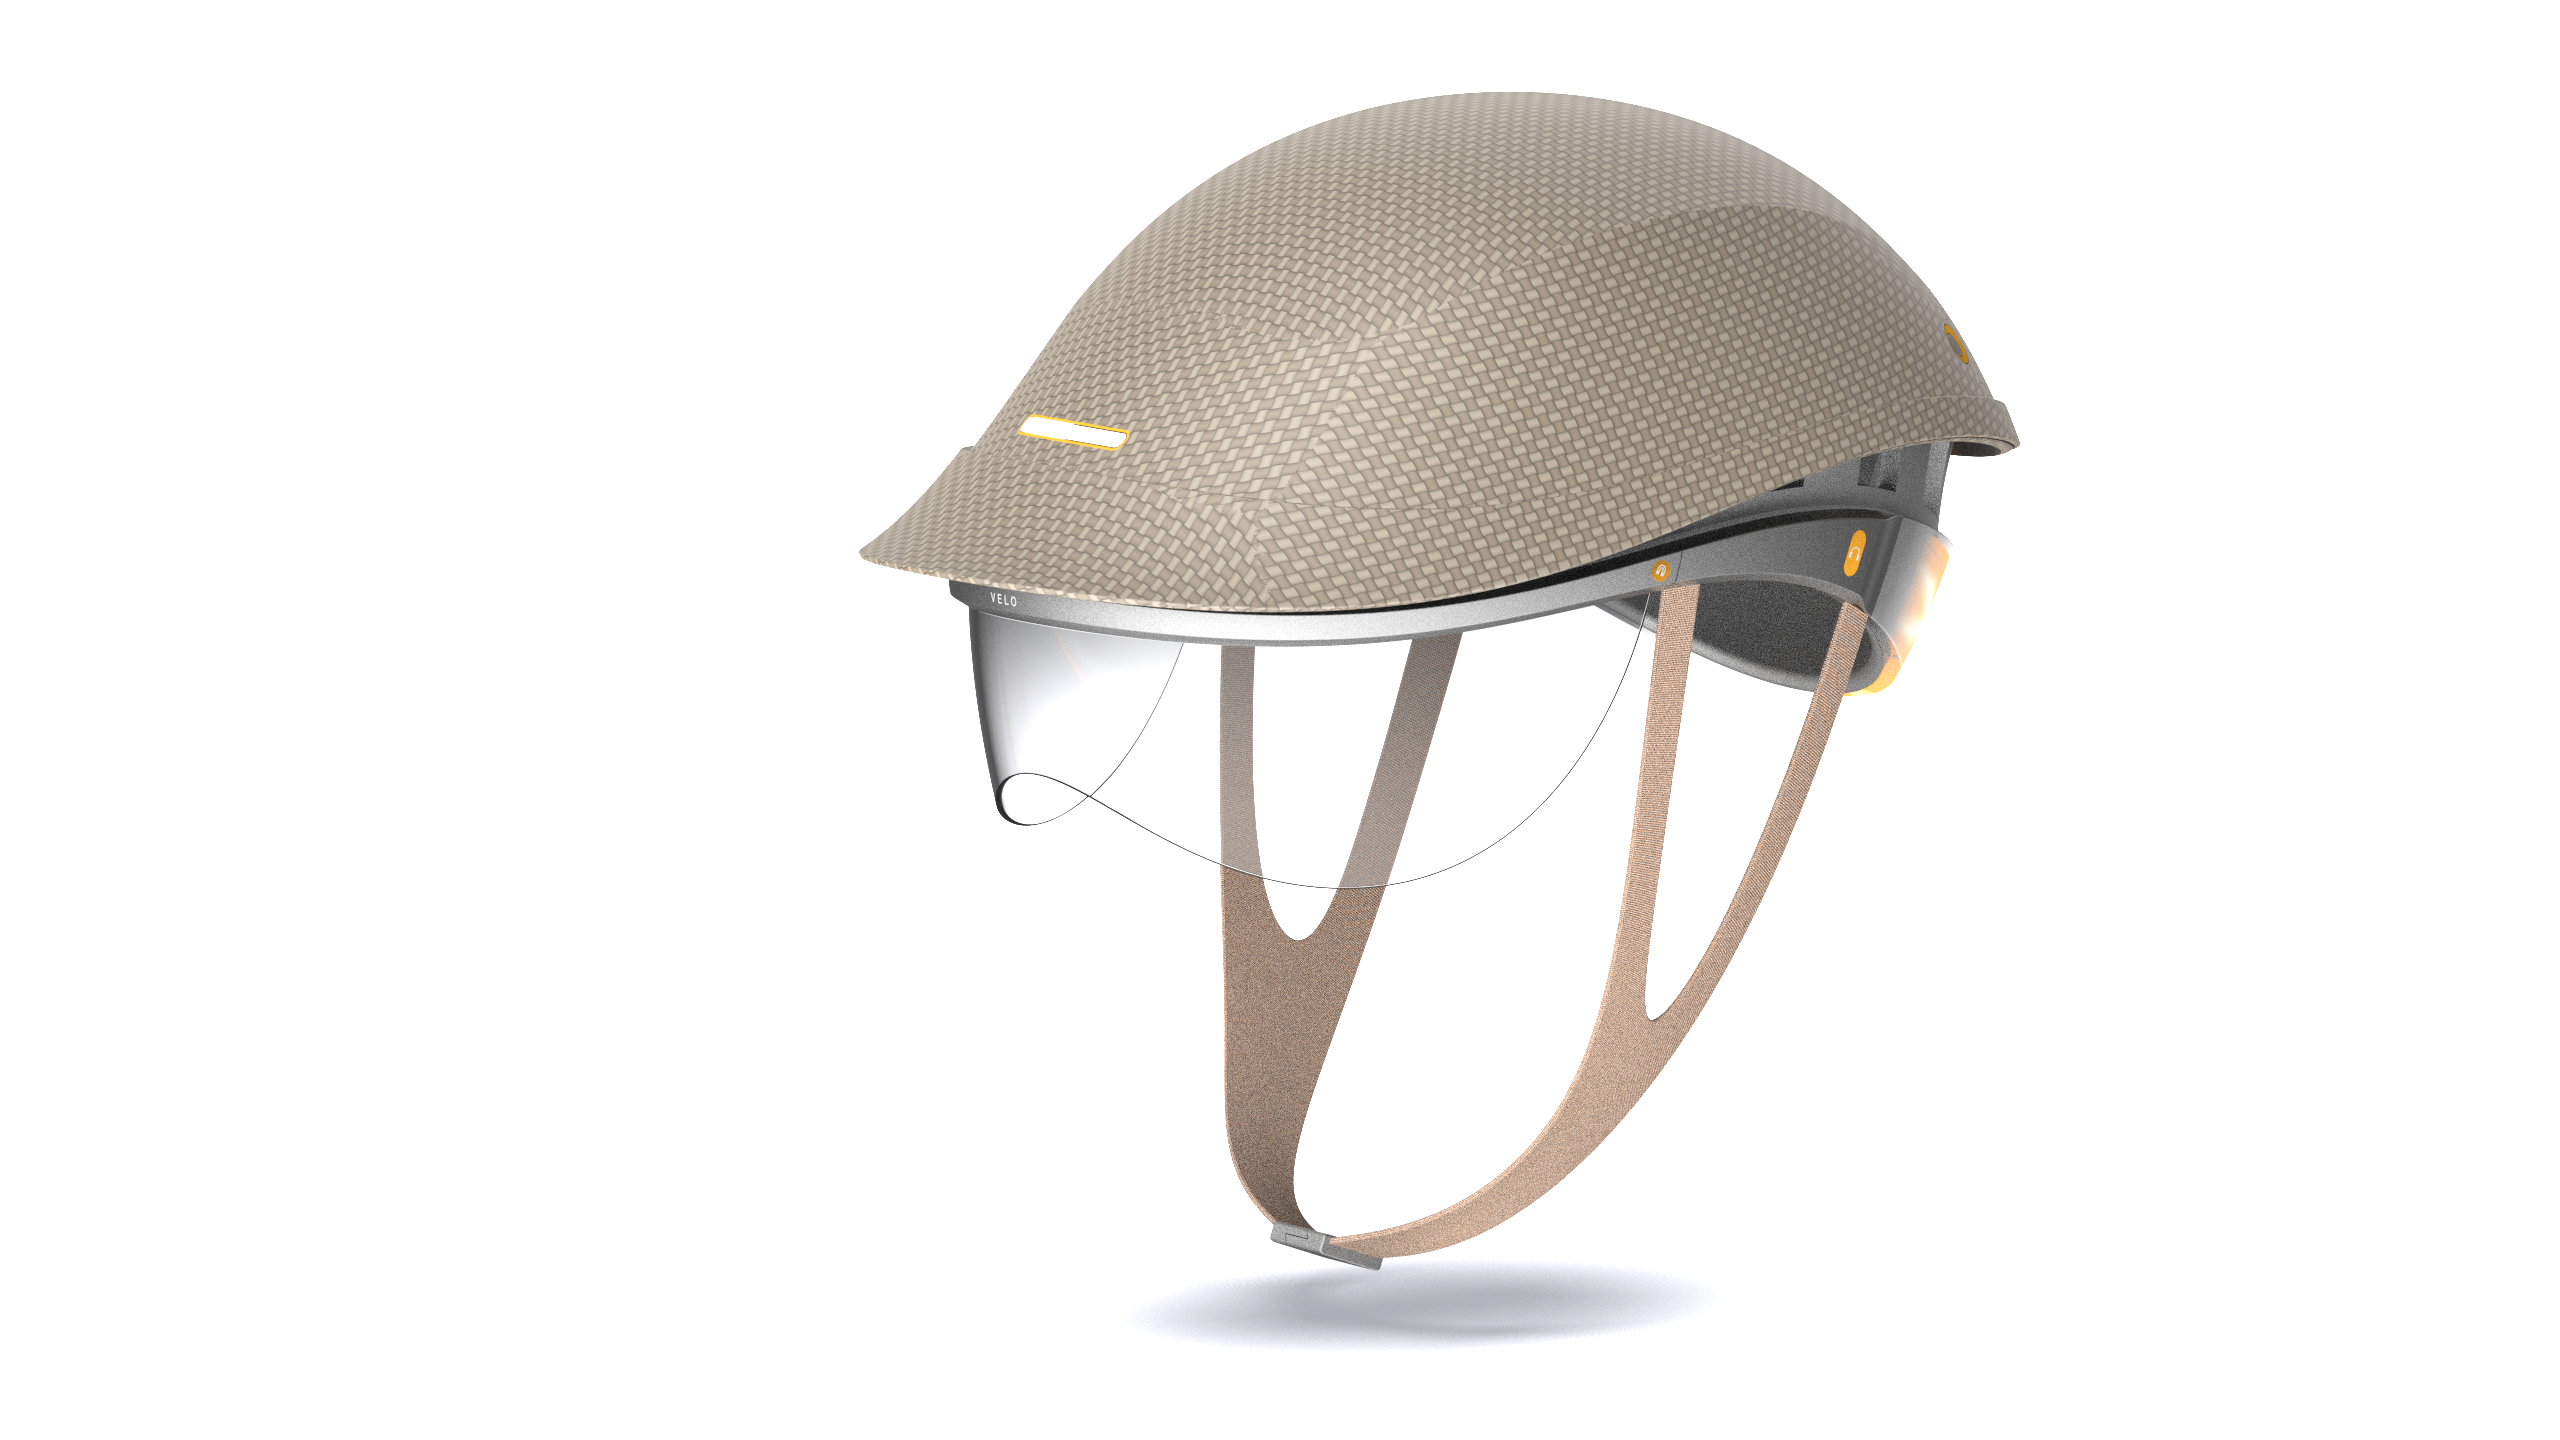
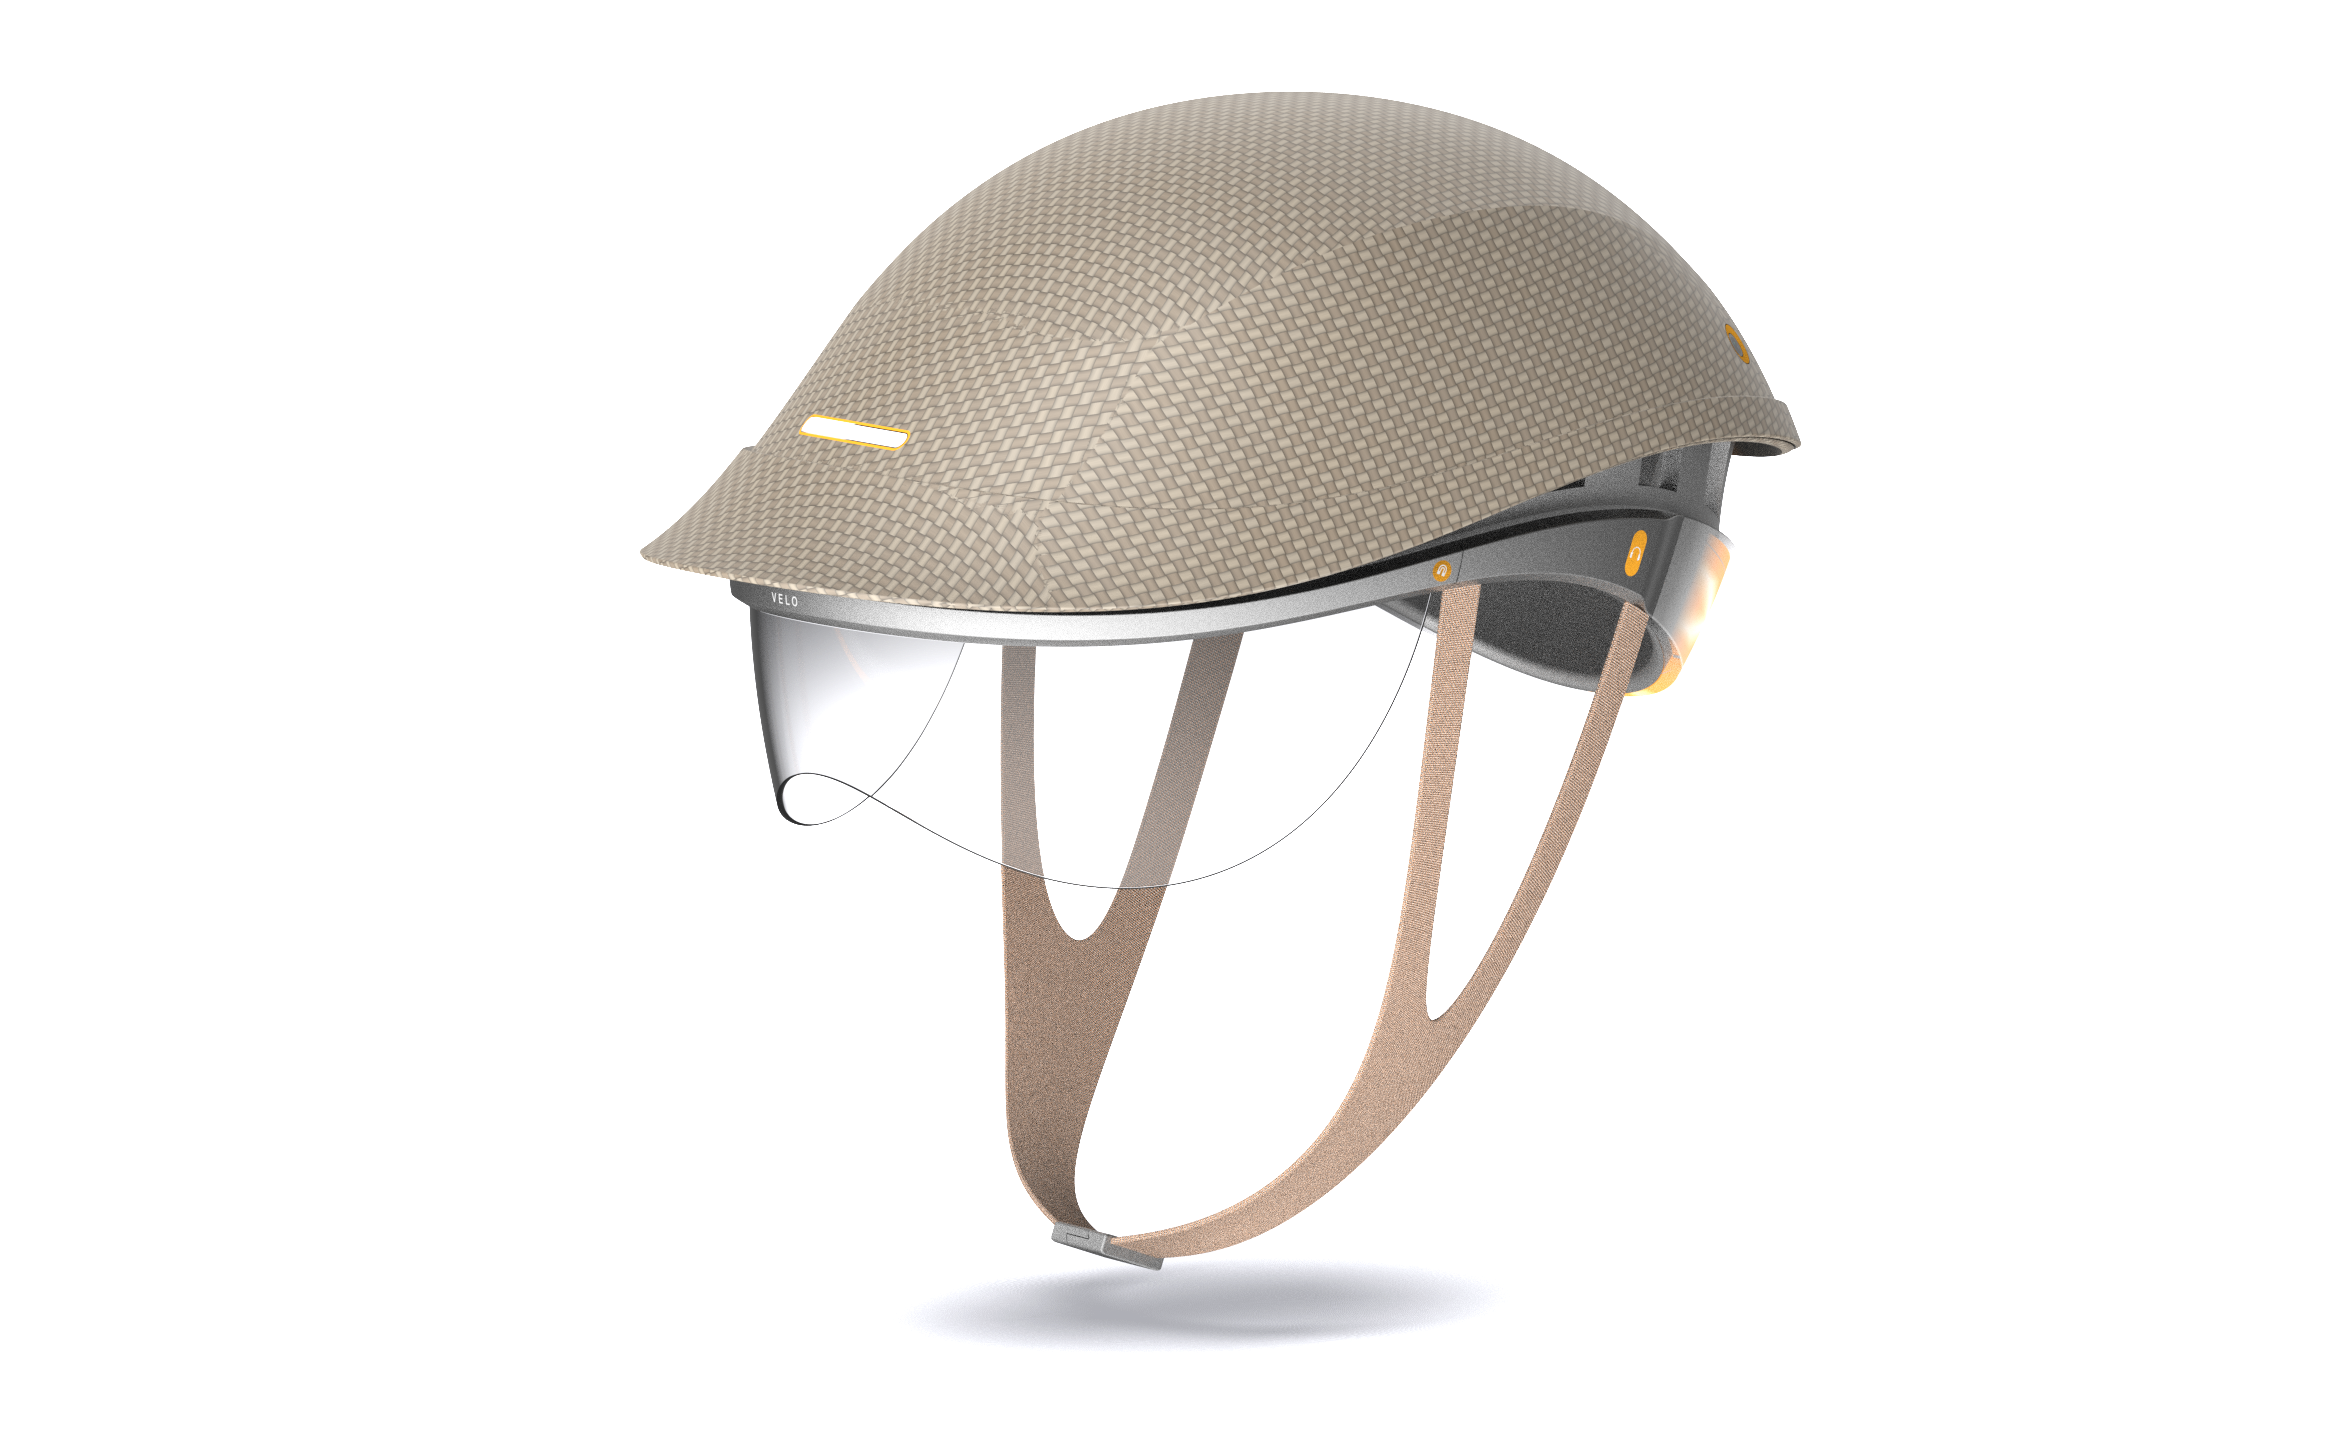
Tighten PetPal gallery, fix prototype spacing, crop VeloVision renders
- Crop the two new VeloVision helmet renders to the gallery's aspect
  ratio so they fill the tile edge-to-edge instead of letterboxing,
  and swap their order
- Drop the redundant static glove render (duplicate of the glove gif)
  and the three app-flow gifs from the PetPal gallery now that the
  live prototype already covers those screens
- Remove the double-counted margin + grid-gap spacing above and below
  the PetPal prototype embed
- Animate the "Play with the app" text alongside its arrow
- Move the pet-species illustration back to sitting below the
  "Pet's Touchable Areas" copy instead of behind it

Changed region(s): [[0.2806, 0.0625, 0.8108, 0.9375], [0.5613, 0.875, 0.6548, 0.9375]]

diff --git a/site/assets/css/style.css b/site/assets/css/style.css
@@ -340,7 +340,7 @@ footer p{ color: var(--ink-soft); font-size:0.82rem; margin:0; font-family: var(
    size, and gets scaled down as a whole via CSS transform so the
    entire phone screen shows, just smaller, never cropped. */
 .project-prototype{
-  border-radius: var(--radius); overflow:hidden; margin: 0 auto 50px; background:transparent;
+  border-radius: var(--radius); overflow:hidden; margin: 0 auto; background:transparent;
   position: relative; width: 100%; max-width: 320px; aspect-ratio: 434/1000;
 }
 .project-prototype iframe{
@@ -352,7 +352,7 @@ footer p{ color: var(--ink-soft); font-size:0.82rem; margin:0; font-family: var(
 }
 /* small animated nudge above the prototype, pointing viewers to interact with it */
 .proto-cta{
-  display:flex; align-items:center; justify-content:center; gap:8px; margin: 0 auto 16px; max-width:320px;
+  display:flex; align-items:center; justify-content:center; gap:8px; margin: 0 auto; max-width:320px;
   font-family: var(--mono); font-size:0.82rem; font-weight:600; letter-spacing:.03em; color: var(--salmon-deep);
 }
 .proto-cta-arrow{ display:inline-block; transform-origin: 15% 15%; animation: proto-cta-wiggle 1.6s ease-in-out infinite; }
@@ -360,24 +360,21 @@ footer p{ color: var(--ink-soft); font-size:0.82rem; margin:0; font-family: var(
   0%,100%{ transform: rotate(-4deg) translateY(0); }
   50%{ transform: rotate(6deg) translateY(4px); }
 }
+.proto-cta-text{ display:inline-block; animation: proto-cta-text-wiggle 1.6s ease-in-out infinite; }
+@keyframes proto-cta-text-wiggle{
+  0%,100%{ transform: rotate(-1.5deg) translateY(0); }
+  50%{ transform: rotate(1.5deg) translateY(-2px); }
+}
+@media (prefers-reduced-motion: reduce){ .proto-cta-text{ animation: none; } }
 @media (min-width: 861px){ .proto-cta{ grid-column: 2; } }
 @media (prefers-reduced-motion: reduce){ .proto-cta-arrow{ animation: none; } }
 .project-body{ display:grid; grid-template-columns: minmax(0,1fr); gap: 56px; }
 .project-section{ display:grid; grid-template-columns: 260px 1fr; gap: 40px; padding-bottom: 8px; }
 .project-section h3{ font-family: var(--display-black); font-size:1.15rem; margin:0; text-transform:uppercase; }
 .project-section p{ color: var(--ink-soft); margin:0; }
-/* decorative image sitting behind this section's text, not a separate gallery item */
-.project-section-bg{ position:relative; overflow:hidden; border-radius: var(--radius); padding: 24px; }
-.project-section-bg .section-bg-img{
-  position:absolute; top:0; right:0; height:100%; width:auto; max-width:85%;
-  object-fit:cover; z-index:0; opacity:.4;
-  mask-image: linear-gradient(to right, transparent, #000 45%);
-  -webkit-mask-image: linear-gradient(to right, transparent, #000 45%);
-}
-.project-section-bg h3, .project-section-bg p{ position:relative; z-index:1; }
-@media (max-width: 860px){
-  .project-section-bg{ padding: 20px; }
-  .project-section-bg .section-bg-img{ max-width:100%; opacity:.22; }
+/* illustration sitting below this section's text, in normal flow */
+.project-section .section-img{
+  grid-column: 1 / -1; width:100%; max-width:420px; border-radius: var(--radius); margin-top:16px;
 }
 /* same grid as .work-tiles: fixed 2 columns, same gap, same tile look */
 .project-gallery{

diff --git a/site/projects/petpal.html b/site/projects/petpal.html
@@ -78,12 +78,8 @@
       </div>
       <div class="project-prototype"><iframe src="../assets/images/petpal/petpal-prototype.html" title="PetPal app interactive prototype" loading="lazy"></iframe></div>
     <div class="project-gallery"><img src="../assets/images/petpal/petpal-sketch.jpg" alt="PetPal" loading="lazy">
-<img src="../assets/images/petpal/petpal-render.jpg" alt="PetPal" loading="lazy">
 <img src="../assets/images/petpal/petpal-glove.gif" alt="PetPal glove device, front and back view" loading="lazy">
-<img src="../assets/images/petpal/petpal-phone-to-clinic.gif" alt="From a hug to the vet's screen: reading sent from the owner's phone to the clinic console" loading="lazy">
-<img src="../assets/images/petpal/petpal-flow-01-onboarding.gif" alt="PetPal app onboarding flow" loading="lazy">
-<img src="../assets/images/petpal/petpal-flow-02-pairing.gif" alt="PetPal app pairing flow" loading="lazy">
-<img src="../assets/images/petpal/petpal-flow-03-capture.gif" alt="PetPal app vitals capture flow" loading="lazy"></div>
+<img src="../assets/images/petpal/petpal-phone-to-clinic.gif" alt="From a hug to the vet's screen: reading sent from the owner's phone to the clinic console" loading="lazy"></div>
     </div>
     
     <div class="project-section">
@@ -96,10 +92,10 @@
           <p>Pet owners are very anxious when their pets are sick, however clinics are not always available. It would be very helpful if we could do a simple health check on a pet&#x27;s situation from home. Some illnesses need tools like a thermometer, blood pressure monitor and heart rate monitor to diagnose.</p>
         </div>
         
-        <div class="project-section project-section-bg">
-          <img class="section-bg-img" src="../assets/images/petpal/petpal-species.jpg" alt="" loading="lazy">
+        <div class="project-section">
           <h3>Pet&#x27;s Touchable Areas</h3>
           <p>Luckily, most mammal pets are all pettable on their head, back and the sides of their body — which are also the areas where vital signs are collected. This makes vital signs obtainable at home without facilitation from vets.</p>
+          <img class="section-img" src="../assets/images/petpal/petpal-species.jpg" alt="Illustration of pettable areas on a cat, rabbit, dog and guinea pig" loading="lazy">
         </div>
   </div>
 </section>

diff --git a/site/projects/velovision.html b/site/projects/velovision.html
@@ -74,8 +74,8 @@
 <img src="../assets/images/velovision/velovision-3.jpg" alt="VeloVision" loading="lazy">
 <img src="../assets/images/velovision/velovision-4.jpg" alt="VeloVision" loading="lazy">
 <img src="../assets/images/velovision/velovision-5.jpg" alt="VeloVision" loading="lazy">
-<img src="../assets/images/velovision/velovision-7.png" alt="VeloVision" loading="lazy">
 <img src="../assets/images/velovision/velovision-8.png" alt="VeloVision" loading="lazy">
+<img src="../assets/images/velovision/velovision-7.png" alt="VeloVision" loading="lazy">
 <img src="../assets/images/velovision/velovision-9.gif" alt="VeloVision" loading="lazy"></div>
     </div>
 
